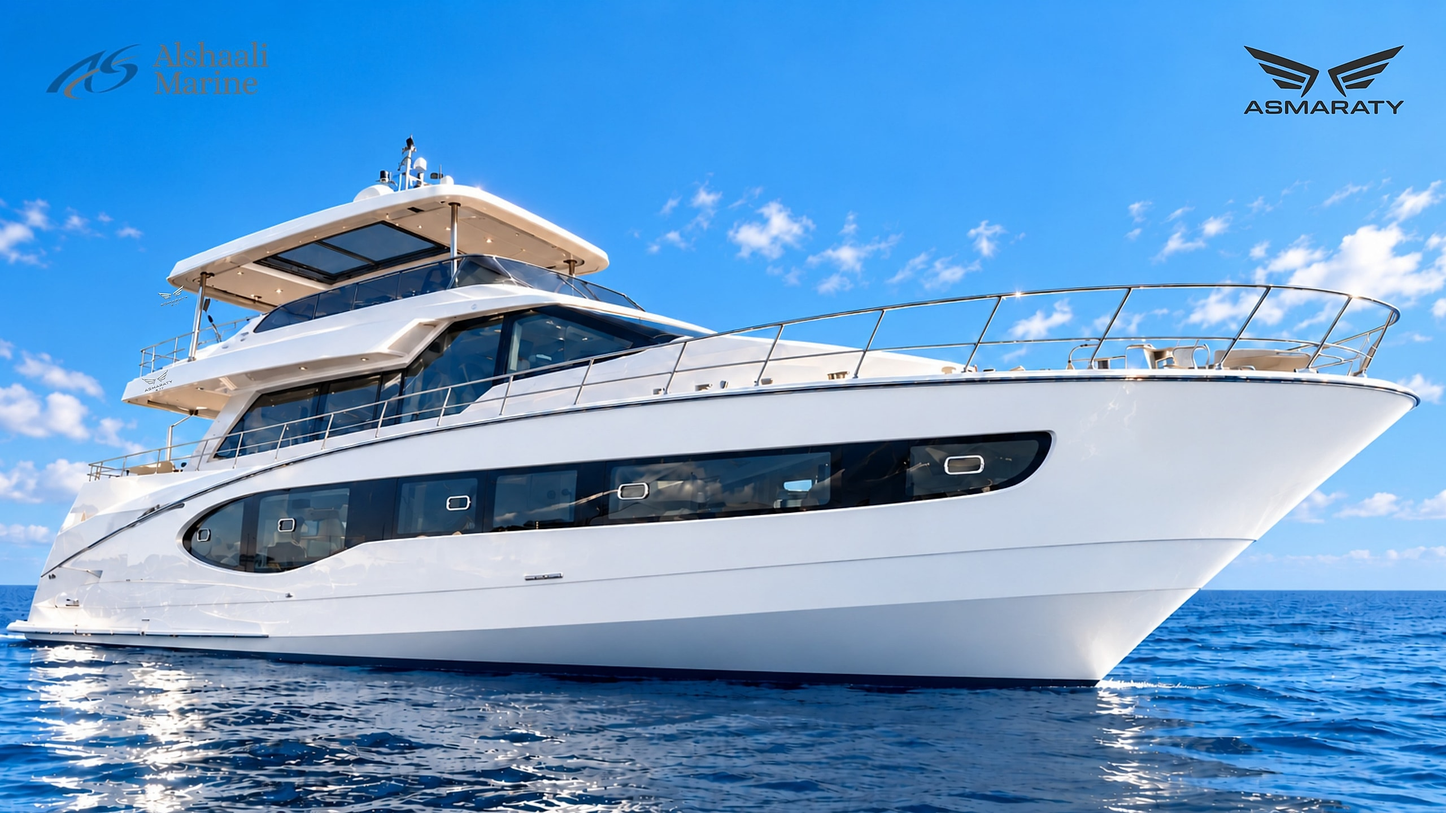
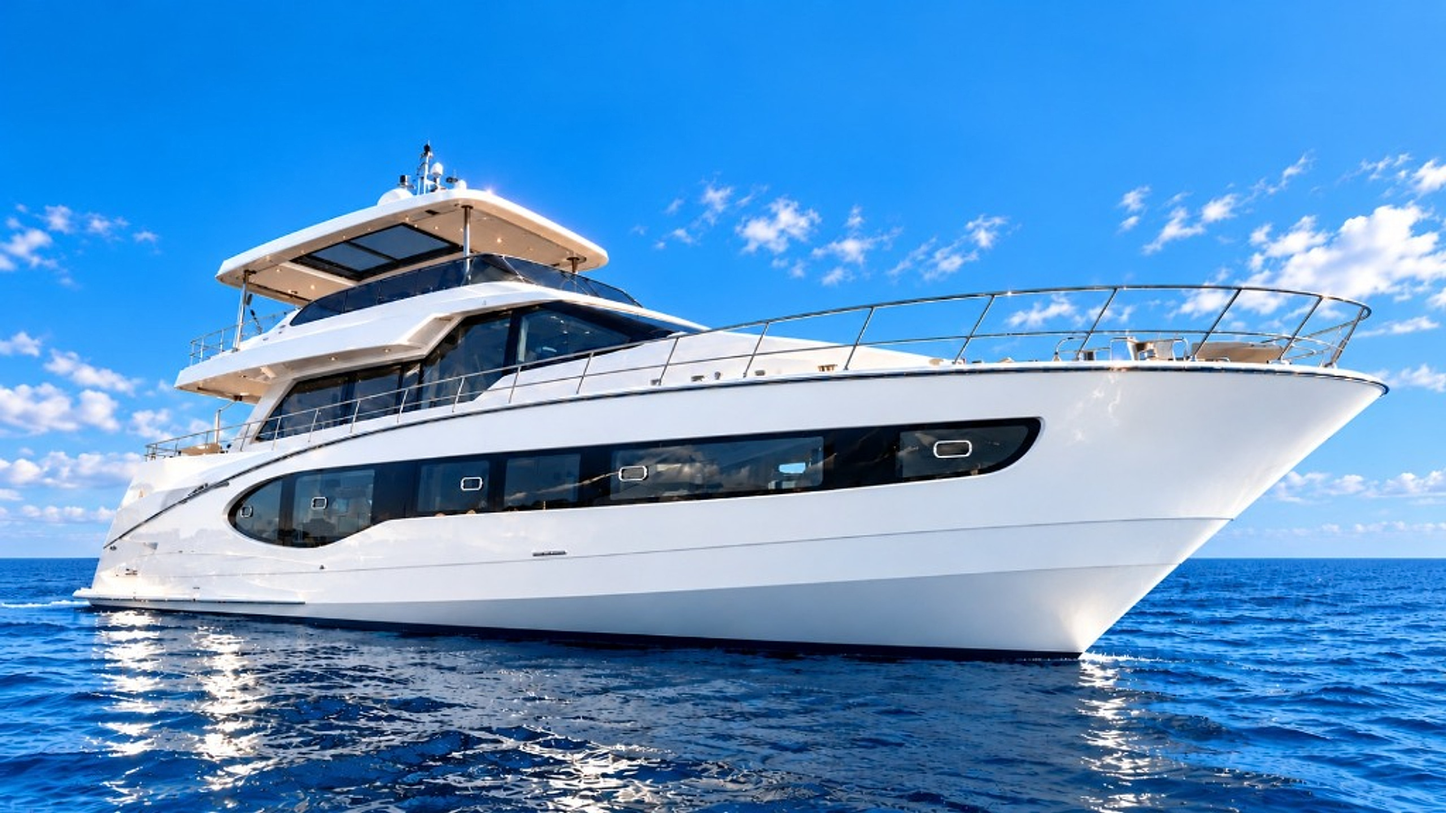
Update G-77 yacht image in superyacht collection with clean photo and restore object-cover

diff --git a/components/public/sections/YachtCollectionSection.js b/components/public/sections/YachtCollectionSection.js
@@ -473,7 +473,7 @@ export default function YachtCollectionSection({
                             <img
                               src={model.mainImage || model.primaryImage || "/images/hero-yacht.jpg"}
                               alt={model.name}
-                              className={`w-full h-full ${model.slug === 'g77' ? 'object-contain' : 'object-cover'} object-center transition-transform duration-700 ease-out group-hover:scale-[1.02]`}
+                              className="w-full h-full object-cover object-center transition-transform duration-700 ease-out group-hover:scale-[1.02]"
                             />
                           </div>
                         </Link>
@@ -652,7 +652,7 @@ export default function YachtCollectionSection({
                 <img
                   src={yacht.mainImage}
                   alt={yacht.name}
-                  className={`w-full h-full ${yacht.slug === 'g77' ? 'object-contain' : 'object-cover'} object-center group-hover:scale-[1.02] transition-transform duration-700`}
+                  className="w-full h-full object-cover object-center group-hover:scale-[1.02] transition-transform duration-700"
                 />
                 <div className="absolute top-3 left-3 bg-[#08101C]/80 px-2.5 py-1 text-[10px] uppercase tracking-wider text-[#C6A155] font-semibold border border-[#C6A155]/30">
                   {yacht.category}
